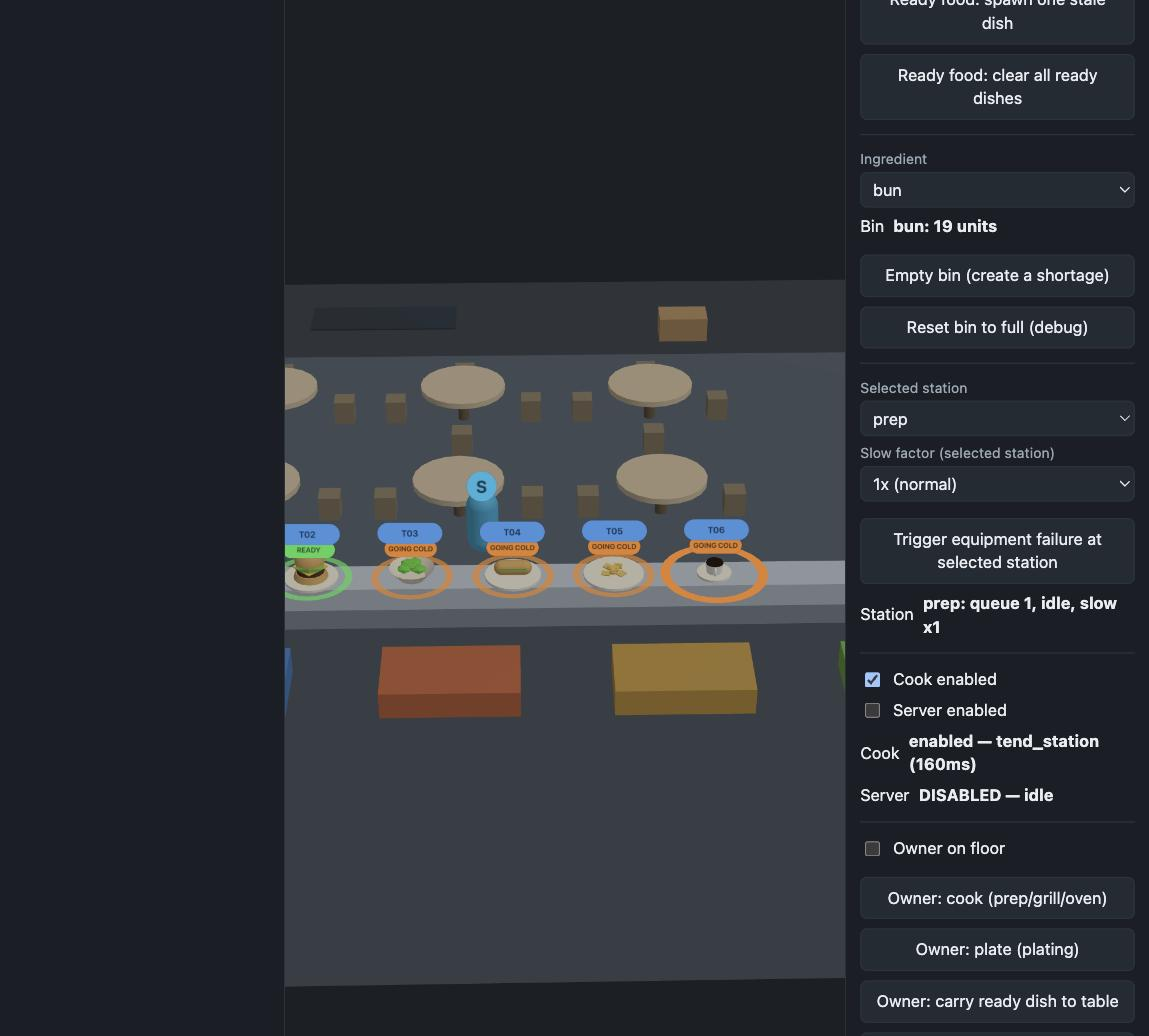
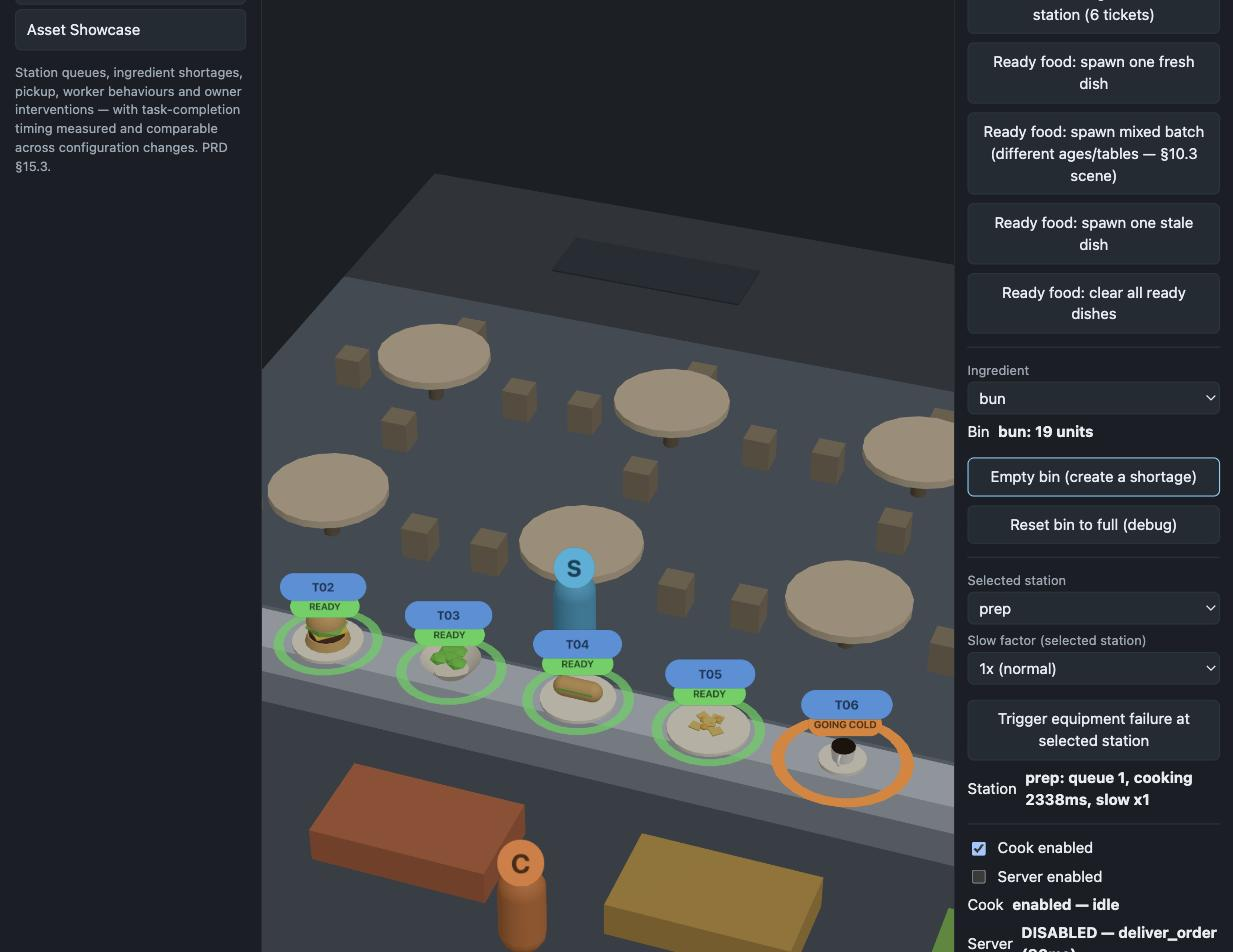
STORY-030: fix asset-showcase regression, slot overflow, default-camera screenshot
asset-showcase-harness.ts (STORY-026) showed "Food-ready icon" diagnostics
and a select control describing the old generic glyph this story removed;
its pass_ready_fresh/stale items and the "Food-ready icon" select rendered
nothing after the removal. Wires both call sites to
upsertReadyDish/removeReadyDish, adds updateReadyDishAnimations to its
render loop, and rewrites the stale diagnostic text and control label.

RestaurantScene#claimReadyDishSlot now returns null (proxy hidden) instead
of falling back to slot 0 when more than MAX_READY_DISH_SLOTS tickets are
ready at once, so an overflow never overlaps an already-placed proxy.

Replaces the PR screenshot with one taken at the harness's own default
KITCHEN_CAMERA settings (previously zoomed further out), which also shows
the oldest-ticket ring correctly enlarged on the actual oldest dish.

Claude-Session: https://claude.ai/code/session_01RjDASSBRn7n2akk6XSTkfL

diff --git a/harnesses/src/asset-showcase-harness.ts b/harnesses/src/asset-showcase-harness.ts
@@ -326,6 +326,12 @@ function createAssetShowcaseHarness(): SceneHarness {
       let spawnedOwnerIds: string[] = [];
       let spawnedCustomerIds: string[] = [];
       let spawnedWorkerIds: string[] = [];
+      /** STORY-030. Ready-dish proxies are NOT part of `applyFloorState`'s `updateFloorState`
+       * call (production reconciles them through `EntityViewRegistry`, outside that method —
+       * see `RestaurantScene.ts`'s own comment on `updateFloorState`), so `applyFloorState({})`
+       * alone does not clear a previously showcased one; both call sites below must track and
+       * clear their own ticket id, same discipline as `spawnedCustomerIds`/`spawnedWorkerIds`. */
+      let spawnedReadyDishIds: string[] = [];
       let activeOwnerState: OwnerRenderState | null = null;
       let activeWorkerDef: WorkerPreviewDef | null = null;
       let activeCustomerId: string | null = null;
@@ -348,6 +354,21 @@ function createAssetShowcaseHarness(): SceneHarness {
           orders: opts.orders ?? [],
           events: [],
         });
+      }
+
+      /** STORY-030. `removeReadyDish` only detaches (see `teardownCategoryEntities`'s own
+       * comment on why `removeOwner`/`removeCustomer`/`removeWorker` never dispose geometry) —
+       * this disposes each proxy's own subtree first, same pattern as every other showcased
+       * entity. Called before spawning a NEW ready-dish showcase item too, so switching
+       * fresh→stale never leaves the old proxy behind under a second ticket id. */
+      function clearShowcaseReadyDishes(): void {
+        if (!scene) return;
+        for (const ticketId of spawnedReadyDishIds) {
+          const group = scene.scene.getObjectByName(`ready_dish_${ticketId}`);
+          if (group) disposeSubtree(group);
+          scene.removeReadyDish(ticketId);
+        }
+        spawnedReadyDishIds = [];
       }
 
       // --- visibility / bounds / camera: the focused-vs-composed mechanism -------------------
@@ -598,20 +619,27 @@ function createAssetShowcaseHarness(): SceneHarness {
           ];
         } else if (id === 'pass_ready_fresh' || id === 'pass_ready_stale') {
           const stale = id === 'pass_ready_stale';
-          applyFloorState({
-            orders: [
-              mockOrder('showcase_pass_order', DISHES[0].id, {
-                state: 'ready',
-                readyAgeMs: stale ? ORDER_FRESHNESS_GRACE_MS + 1000 : 0,
-              }),
-            ],
+          applyFloorState({});
+          clearShowcaseReadyDishes();
+          const ticketId = 'showcase_pass_order_ticket';
+          scene.upsertReadyDish({
+            ticketId,
+            dishId: DISHES[0].id,
+            tableId: layoutTableIds()[0] ?? null,
+            readyAgeMs: stale ? ORDER_FRESHNESS_GRACE_MS + 1000 : 0,
+            isOldest: true,
           });
+          spawnedReadyDishIds = [ticketId];
           target = scene.scene.getObjectByName('service_pass') ?? null;
           diagnostics = [
-            "The food-ready icon at the pass is the only production visual for OrderState " +
-              "'ready' — there is no per-dish mesh at the pass either; every ready ticket shows " +
-              'the same glyph, tinted healthy or bottleneck by how long it has sat past ' +
-              'ORDER_FRESHNESS_GRACE_MS.',
+            // STORY-030. Supersedes the old single-glyph `foodReadyIcon` — every ready ticket
+            // now gets its own dish-specific proxy (`RestaurantScene#upsertReadyDish`), keyed
+            // off `dishId`, with a READY/GOING COLD label and table chip, tinted healthy/
+            // bottleneck by how long it has sat past `ORDER_FRESHNESS_GRACE_MS`.
+            'The dish-specific plated proxy at the pass is the production visual for OrderState ' +
+              "'ready' (PRD §5.2/§10.1) — geometry is chosen by `dishId`, not by state; freshness " +
+              'is carried by the ring color and the READY/GOING COLD chip, never by recoloring ' +
+              'the food itself.',
           ];
         } else if (id === 'kitchen_queued_low' || id === 'kitchen_queued_high') {
           const depth = id === 'kitchen_queued_low' ? 1 : 4;
@@ -651,6 +679,7 @@ function createAssetShowcaseHarness(): SceneHarness {
         rivalFraction = 0;
         rivalQueueLength = 0;
         applyFloorState({});
+        clearShowcaseReadyDishes();
 
         const isStation = id.startsWith('station_');
         const isTable = layoutTableIds().includes(id);
@@ -747,6 +776,7 @@ function createAssetShowcaseHarness(): SceneHarness {
         spawnedOwnerIds = [];
         spawnedCustomerIds = [];
         spawnedWorkerIds = [];
+        clearShowcaseReadyDishes();
         activeOwnerState = null;
         activeWorkerDef = null;
         activeCustomerId = null;
@@ -938,16 +968,22 @@ function createAssetShowcaseHarness(): SceneHarness {
       const servicePassControls = document.createElement('div');
       restaurantSection.appendChild(servicePassControls);
       const setPassSelect = panel.addSelect(
-        'Food-ready icon',
+        // STORY-030. Was "Food-ready icon" — this now toggles a dish-specific plated proxy
+        // (`RestaurantScene#upsertReadyDish`), not a single generic glyph.
+        'Ready-dish proxy',
         PASS_OPTIONS,
         (v) => {
-          if (v === 'none') {
-            applyFloorState({});
-            return;
-          }
-          applyFloorState({
-            orders: [mockOrder('showcase_pass_order', DISHES[0].id, { state: 'ready', readyAgeMs: v === 'stale' ? ORDER_FRESHNESS_GRACE_MS + 1000 : 0 })],
+          clearShowcaseReadyDishes();
+          if (v === 'none' || !scene) return;
+          const ticketId = 'showcase_pass_order_ticket';
+          scene.upsertReadyDish({
+            ticketId,
+            dishId: DISHES[0].id,
+            tableId: layoutTableIds()[0] ?? null,
+            readyAgeMs: v === 'stale' ? ORDER_FRESHNESS_GRACE_MS + 1000 : 0,
+            isOldest: true,
           });
+          spawnedReadyDishIds = [ticketId];
         },
         servicePassControls,
       );
@@ -1097,6 +1133,10 @@ function createAssetShowcaseHarness(): SceneHarness {
 
         if (scene && camera) {
           scene.updateCustomerAnimations(elapsedTotal);
+          // STORY-030. Same per-frame split as `updateCustomerAnimations` — pulses whichever
+          // showcased ready-dish proxy is marked `isOldest` (see the two `upsertReadyDish` call
+          // sites below).
+          scene.updateReadyDishAnimations(elapsedTotal);
           if (boundsOn && boundsHelper && currentTarget) boundsHelper.box.setFromObject(currentTarget);
           camera.update(dt);
           renderer?.render(scene.scene, camera.camera);

diff --git a/client/src/scenes/RestaurantScene.ts b/client/src/scenes/RestaurantScene.ts
@@ -172,9 +172,12 @@ const MAX_VISIBLE_CARRY_PLATES = 3;
  * fixed slot layout (like `MAX_VISIBLE_QUEUE_BOXES`/`MAX_VISIBLE_CARRY_PLATES` above) rather
  * than a dynamic reflow, so an already-visible dish never jumps sideways just because a NEWER
  * ticket became ready. 8 comfortably outpaces kitchen throughput for the MVP's 4-station,
- * single-cook line; a 9th simultaneous ready ticket (never observed in practice) falls back to
- * slot 0, the same "past this point the exact position stops mattering" call
- * `MAX_VISIBLE_QUEUE_BOXES`'s own comment makes for its 5th box. */
+ * single-cook line; a 9th simultaneous ready ticket (never observed in practice) is hidden
+ * rather than placed on top of another proxy — UNLIKE `MAX_VISIBLE_QUEUE_BOXES`'s 5th box (which
+ * is fine to simply not draw, since the queue's color band already carries "this is bad" past
+ * that point), a hidden-vs-overlapping choice matters here because the AC is explicitly "all
+ * remain visible without geometry overlap" — overlapping would violate it outright, a briefly
+ * uncounted 9th plate would not. See `claimReadyDishSlot`. */
 const MAX_READY_DISH_SLOTS = 8;
 /** Local-space X range across the service pass's own 16-unit width (`buildEntity`'s
  * `service_pass` box), leaving a margin so a plate's own radius never clips past the pass edge. */
@@ -755,13 +758,16 @@ export class RestaurantScene {
   // ('readyDishes') --------------------------------------------------------------------------
 
   /** First free pass slot for a NEWLY seen ticket — see `readyDishSlotPosition`'s own comment
-   * on why slots are claimed once and held, not recomputed every snapshot. Falls back to slot 0
-   * past `MAX_READY_DISH_SLOTS` live tickets simultaneously (see that constant's own comment). */
-  private claimReadyDishSlot(ticketId: string): number {
+   * on why slots are claimed once and held, not recomputed every snapshot. Returns `null` past
+   * `MAX_READY_DISH_SLOTS` live tickets simultaneously (see that constant's own comment) — the
+   * caller (`upsertReadyDish`) hides the proxy rather than placing a second one on an
+   * already-occupied slot, which the AC "all remain visible without geometry overlap" rules out
+   * as an option; the overlap is what would actually violate it, not a briefly-hidden 9th plate. */
+  private claimReadyDishSlot(ticketId: string): number | null {
     const existing = this.readyDishSlots.get(ticketId);
     if (existing !== undefined) return existing;
-    let slot = this.readyDishSlotUsed.findIndex((used) => !used);
-    if (slot === -1) slot = 0;
+    const slot = this.readyDishSlotUsed.findIndex((used) => !used);
+    if (slot === -1) return null;
     this.readyDishSlotUsed[slot] = true;
     this.readyDishSlots.set(ticketId, slot);
     return slot;
@@ -830,6 +836,14 @@ export class RestaurantScene {
     }
 
     const slot = this.claimReadyDishSlot(state.ticketId);
+    if (slot === null) {
+      // Past `MAX_READY_DISH_SLOTS` simultaneously ready tickets — hide rather than overlap an
+      // already-placed proxy (see `claimReadyDishSlot`'s own comment). Skip the rest of this
+      // upsert; there is nothing else worth updating on a proxy nobody can see.
+      group.visible = false;
+      return;
+    }
+    group.visible = true;
     // Local space, relative to `service_pass`'s own box mesh (16w × 0.9h, centered at its own
     // origin — see `buildEntity`'s `service_pass` case): y=0.45 sits exactly on the top surface.
     group.position.set(readyDishSlotPosition(slot), 0.45, 0);
